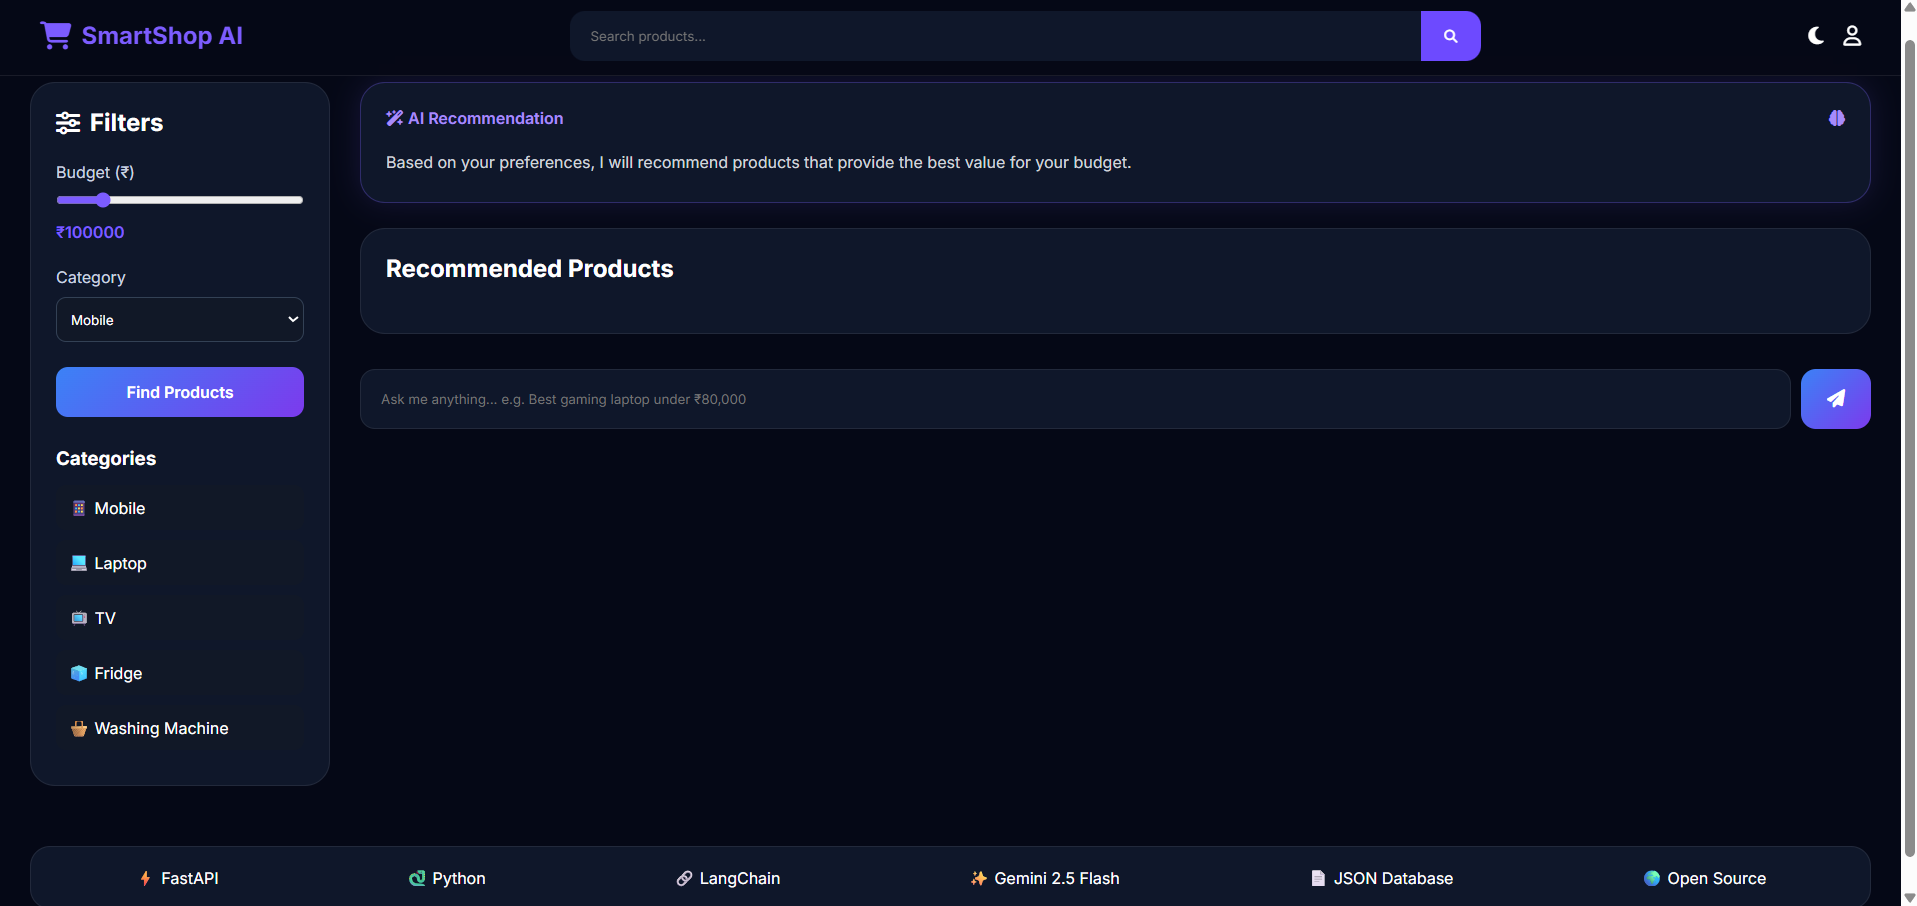
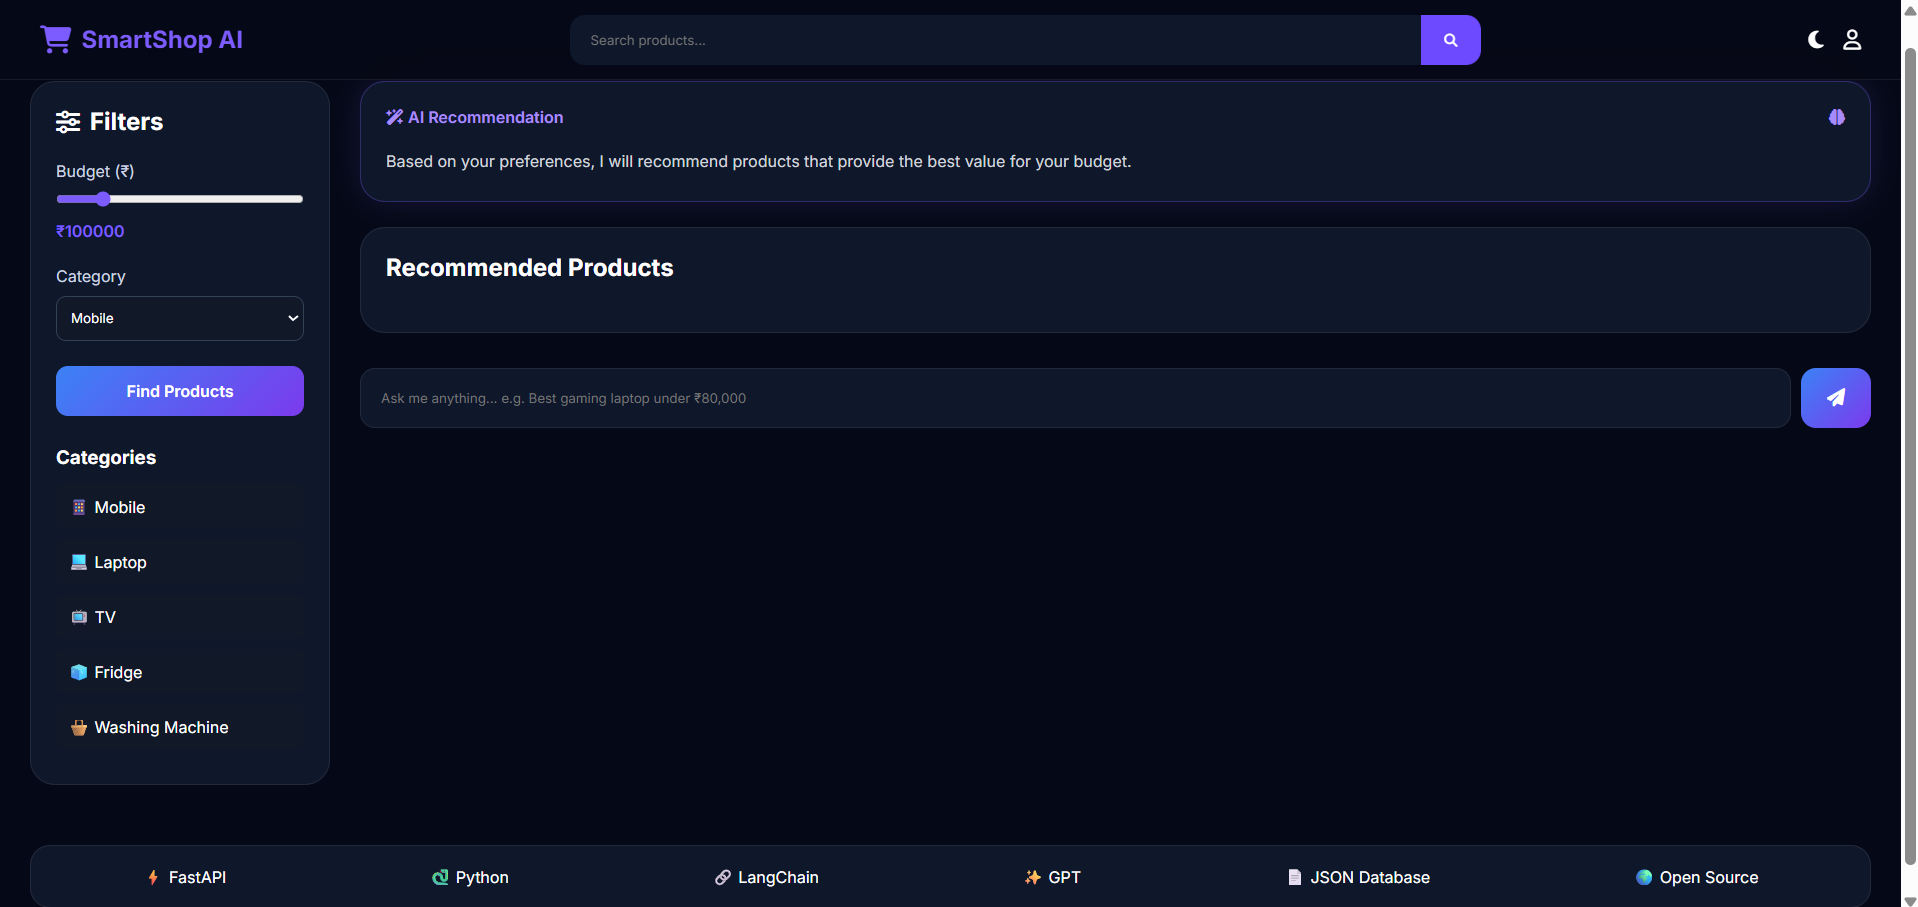
readme update

diff --git a/templates/index.html b/templates/index.html
@@ -237,7 +237,7 @@
         </div>
 
         <div>
-            ✨ Gemini 2.5 Flash
+            ✨ GPT
         </div>
 
         <div>

diff --git a/main.py b/main.py
@@ -50,7 +50,7 @@ templates = Jinja2Templates(
 )
 
 # -----------------------------
-# Gemini
+# GPT
 # -----------------------------
 
 llm = ChatOpenAI(

diff --git a/README.md b/README.md
@@ -73,7 +73,7 @@ project/
 ### AI & LLM
 
 * LangChain
-* Google Gemini 2.5 Flash
+* Openai GPT | gpt-3.5-turbo
 
 ### Data Storage
 
@@ -86,7 +86,7 @@ project/
 1. User enters a product-related query.
 2. Frontend sends the query to the FastAPI backend.
 3. LangChain processes the request.
-4. Gemini 2.5 Flash generates intelligent recommendations.
+4. gpt-3.5-turbo generates intelligent recommendations.
 5. Backend retrieves matching products from the product database.
 6. Recommended products are returned to the frontend.
 7. Product cards and AI explanations are displayed to the user.
@@ -136,7 +136,7 @@ pip install -r requirements.txt
 Create a `.env` file in the root directory.
 
 ```env
-GOOGLE_API_KEY=your_google_api_key
+OPENAI_API_KEY = your_openai_api
 ```
 
 ---